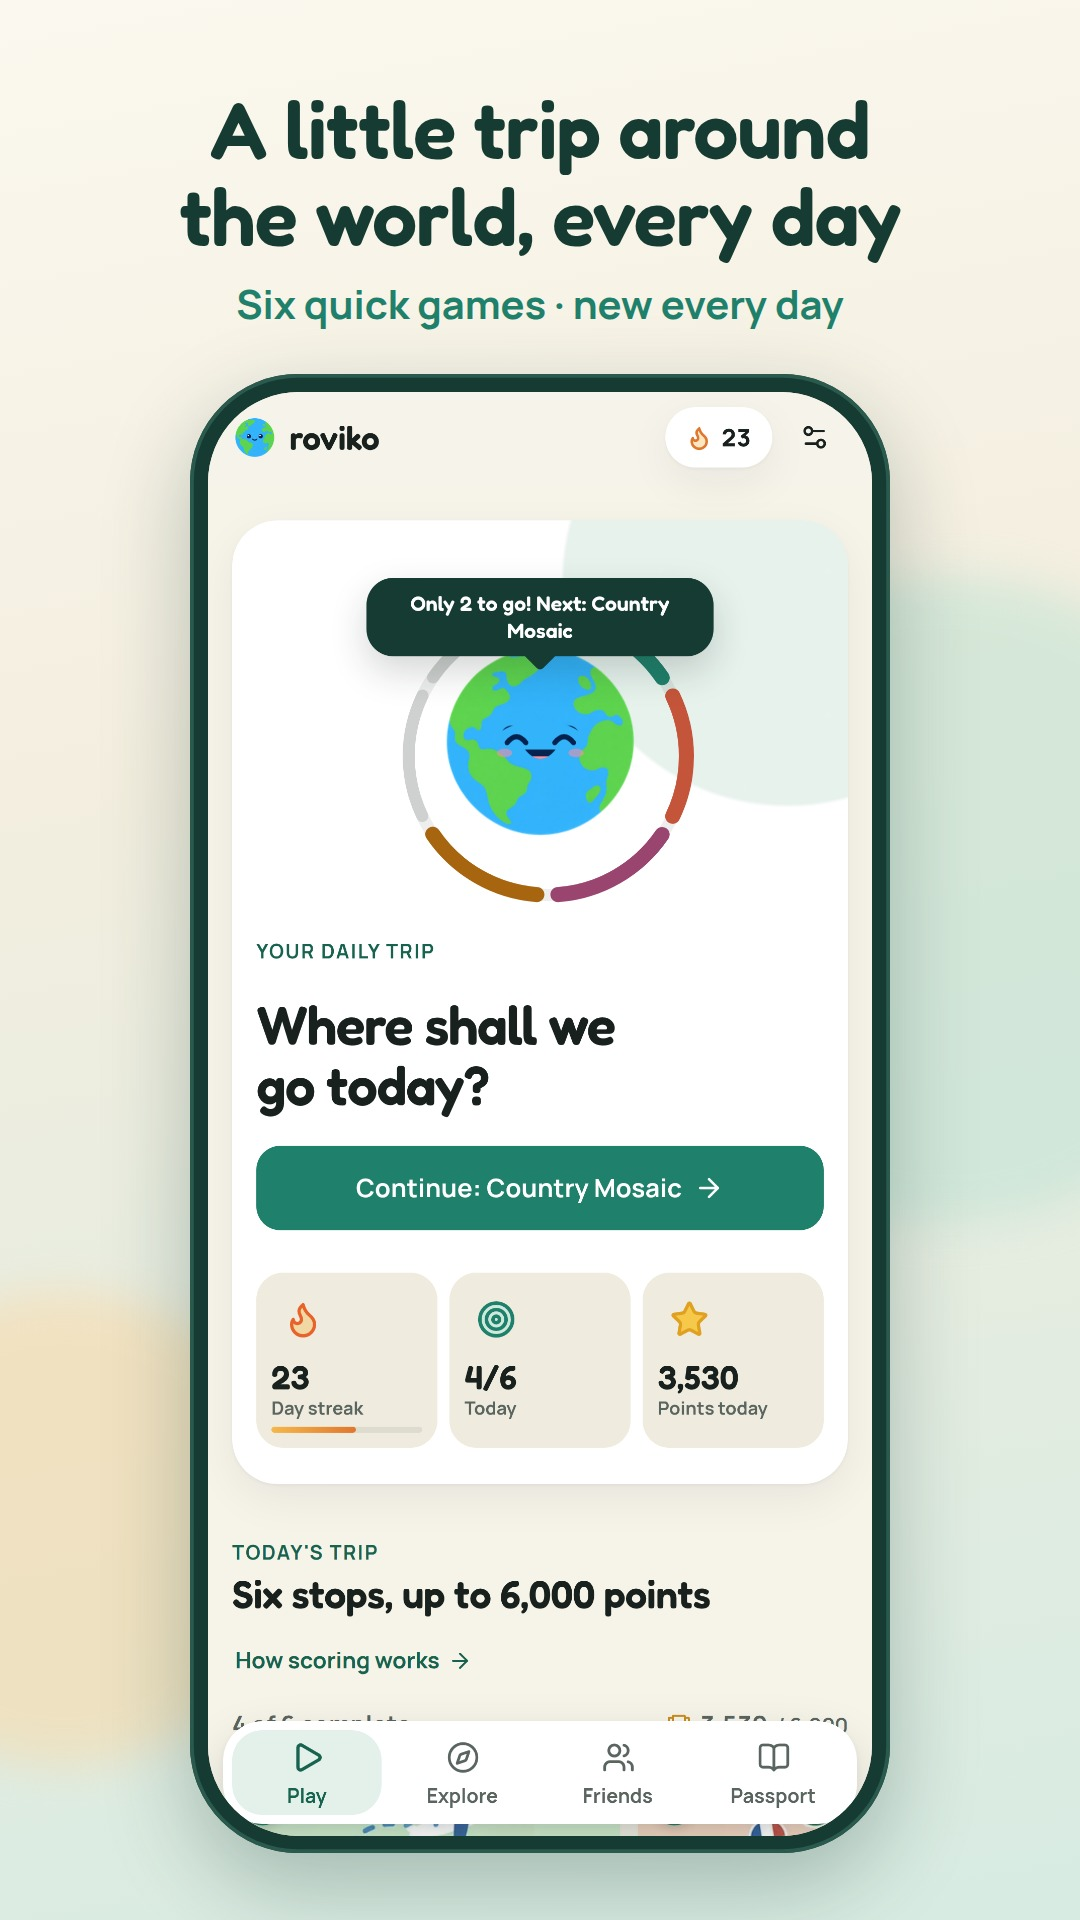
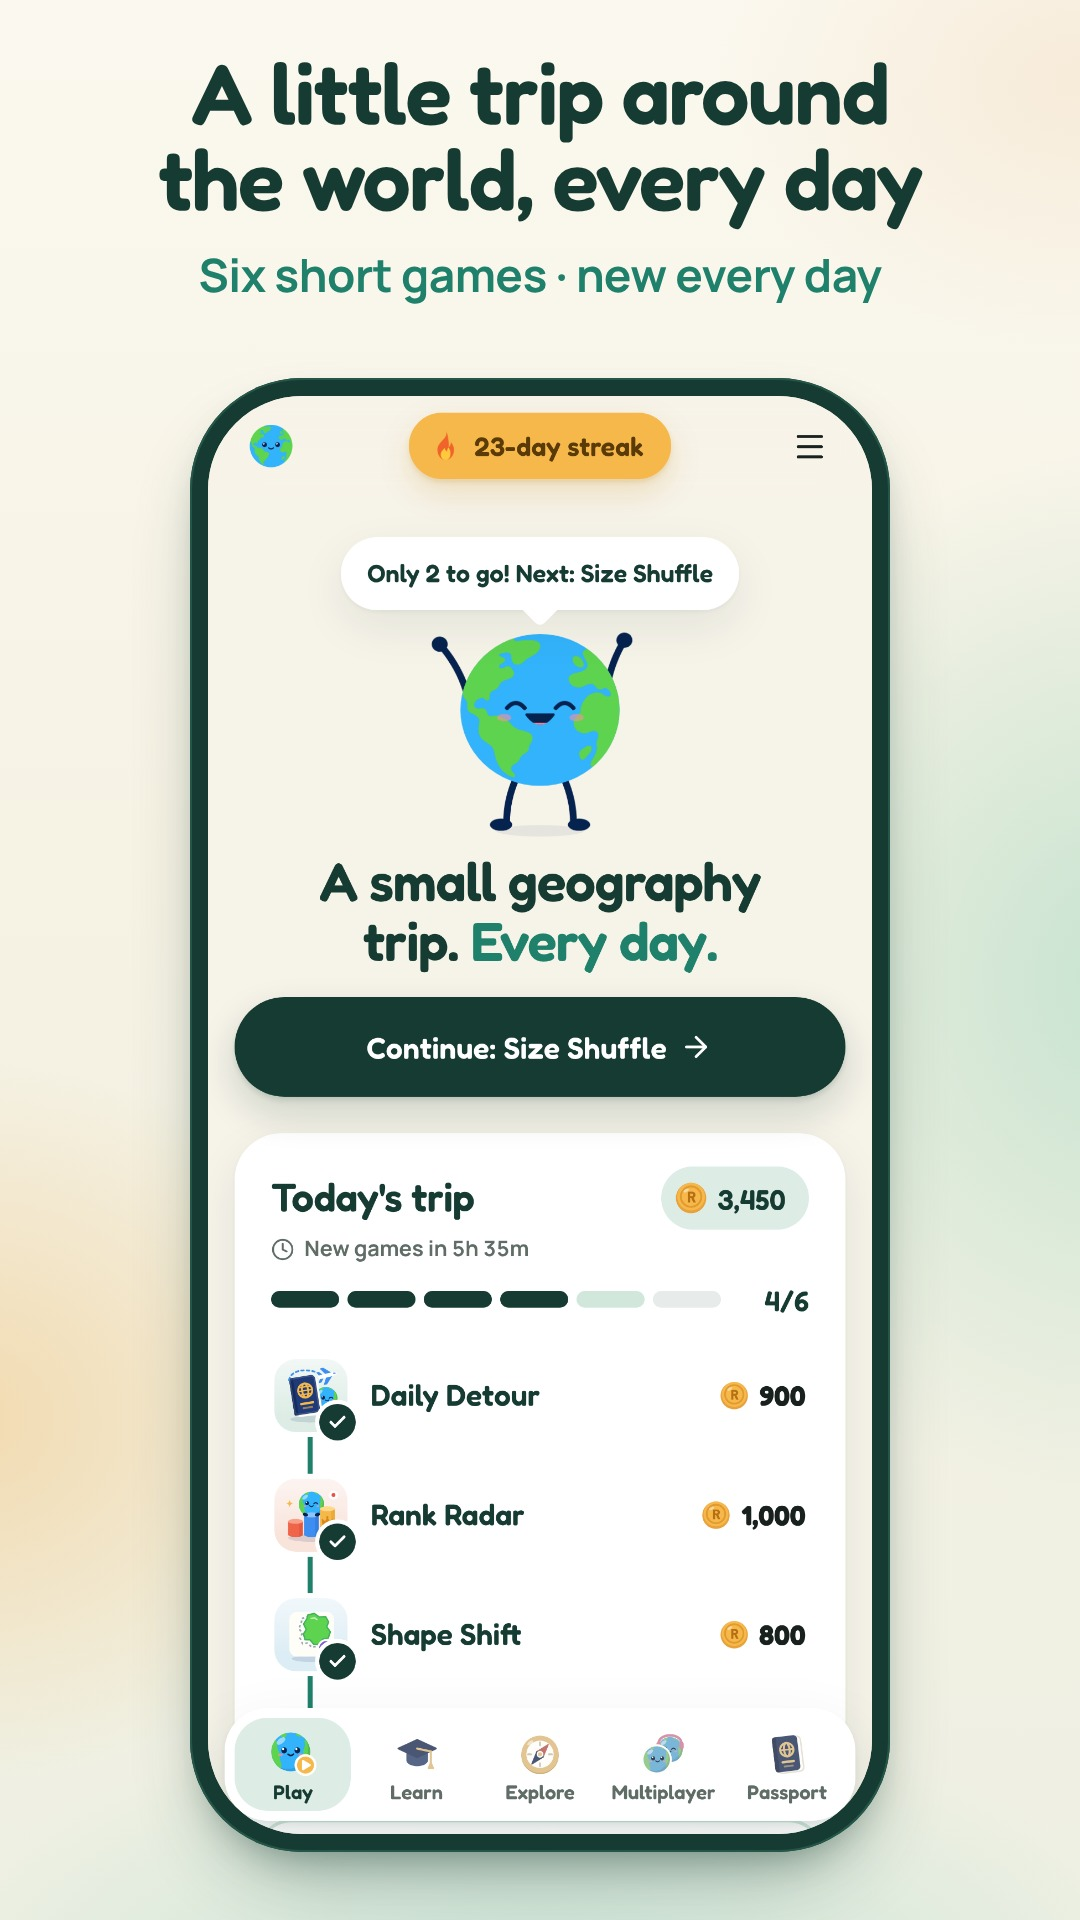
Google Play: nieuwe screenshots voor 1.41 (NL en EN)
Zes per taal: startscherm, Leren, Rank Radar met perfecte keuze,
Vormenjacht, multiplayer-kamer en ranglijst. Gemaakt op een lokale
testserver met voorbeeldspelers; geen live gegevens gebruikt.

Claude-Session: https://claude.ai/code/session_01PQ3vf5Uus3qzDr4Bq788rS

diff --git a/roviko-app/store/README.md b/roviko-app/store/README.md
@@ -1,10 +1,26 @@
 # Winkelafbeeldingen
 
-Deze screenshots zijn gemaakt van versie 1.20 (app-modus) op een lokale ontwikkelserver, met Playwright:
+## Google Play, telefoon (versie 1.41)
 
-1. Een voorbeeldspeler (Sofia / Sanne) krijgt een reeks van 23 dagen, 74 landen in het paspoort en vier van de zes dagspellen van vandaag. Andere voorbeeldspelers vullen de ranglijst. Alles staat alleen in de lokale testdatabase.
-2. Elk scherm wordt opgenomen op 440×956 bij 3× (telefoon) en 1032×1376 bij 2× (iPad). Het live potje tegen twee computerspelers en de Wereldduel-ronde worden echt gespeeld, met het goede antwoord.
-3. Daarna komt er een kop in Fredoka en een ondertitel in Manrope boven, op een crème-mintachtergrond. Het scherm staat helemaal zichtbaar in een donkergroen toestel.
+De set in `google-play-phone/nl/` en `google-play-phone/en/` is gemaakt van versie 1.41 (app-modus) op een lokale ontwikkelserver, met Playwright:
+
+1. Een voorbeeldspeler (Sanne in het Nederlands, Sofia in het Engels) krijgt een reeks van 23 dagen, 3.450 punten en vier van de zes dagspellen van vandaag, voortgang bij Leren (vlaggen en hoofdsteden van Europa), drie vrienden en een plek in de Goudgroep. Elf andere voorbeeldspelers vullen de ranglijsten. Alles stond alleen in de lokale testdatabase; die is daarna teruggezet.
+2. Voor de nieuwe opstelling (Vormenjacht in plaats van Wereldduel) stond `SHAPE_FROM` tijdens het opnemen tijdelijk op de dag zelf; die wijziging is teruggedraaid.
+3. Elk scherm wordt opgenomen op 400×866 bij 3×. Rank Radar (vier rondes, telkens het beste onderwerp: "Perfecte keuze!") en Vormenjacht (drie goede antwoorden, dan vraag 4) worden echt gespeeld; in de kamer zitten echte voorbeeldspelers en een computerspeler.
+4. Daarna komt er een kop in Fredoka en een ondertitel in Manrope boven, op een crème-mintachtergrond, 1080×1920. Het scherm staat helemaal zichtbaar in een donkergroen toestel.
+
+| # | Bestand | Wat je ziet | NL | EN |
+| --- | --- | --- | --- | --- |
+| 1 | `1-home.jpg` | Startscherm: reeks van 23 dagen, reis van vandaag 4/6 met 3.450 punten, volgende spel Size Shuffle | Elke dag een kleine wereldreis · *Zes korte spellen · elke dag nieuw* | A little trip around the world, every day · *Six short games · new every day* |
+| 2 | `2-learn.jpg` | Leren: vlaggen, hoofdsteden en kaart per continent, 21/45 vlaggen met brons/zilver/goud, de route met lessen | Leer vlaggen, hoofdsteden en de kaart · *Per continent, in korte lessen* | Learn flags, capitals and the map · *Continent by continent, in short lessons* |
+| 3 | `3-rank-radar.jpg` | Rank Radar, land 4/8 net gekozen: "Perfecte keuze!", 4 perfect op rij | Waar staat elk land het hoogst? · *Rank Radar* | Where does each country rank highest? · *Rank Radar* |
+| 4 | `4-shape-shift.jpg` | Vormenjacht (dagspel), vraag 4/10 met 300 punten en een reeks van 3 | Herken landen aan hun vorm · *Vormenjacht* | Know countries by their shape · *Shape Shift* |
+| 5 | `5-multiplayer.jpg` | Wachtkamer 6/12 met vier vrienden en een computerspeler | Speel live met vrienden · *Tot 12 spelers per kamer* | Play live with friends · *Up to 12 players per room* |
+| 6 | `6-rankings.jpg` | Ranglijst: Goudgroep (net gepromoveerd), jij op #1 van 12 | Klim in de ranglijst · *Vandaag, deze week en in je liga* | Climb the rankings · *Today, this week and in your league* |
+
+## App Store (versie 1.20)
+
+De App Store-sets zijn nog van versie 1.20, op dezelfde manier gemaakt: voorbeeldspeler met een reeks van 23 dagen en 74 landen in het paspoort, opgenomen op 440×956 bij 3× (telefoon) en 1032×1376 bij 2× (iPad); het live potje tegen twee computerspelers en de Wereldduel-ronde werden echt gespeeld.
 
 | Map | Formaat | Voor |
 | --- | --- | --- |
@@ -12,13 +28,13 @@ Deze screenshots zijn gemaakt van versie 1.20 (app-modus) op een lokale ontwikke
 | `ios-iphone-6.5/` | 1284×2778 | App Store, 6,5" iPhone |
 | `ios-ipad-13/` | 2064×2752 | App Store, 13" iPad |
 | `roviko-screenshots.zip` | | Alle App Store-sets (EN en NL) in één download |
-| `google-play-phone/` | 1080×1920 | Google Play, telefoon |
+| `google-play-phone/` | 1080×1920 | Google Play, telefoon (1.41, zie boven) |
 | `google-play-feature-graphic-*.png` | 1024×500 | Google Play-banner |
 | `app-store-icon-1024.png`, `google-play-icon-512.png` | 1024 / 512 | Winkeliconen (ondoorzichtig) |
 
-Volgorde: 1 startscherm, 2 live potje, 3 Wereldduel, 4 ranglijst, 5 paspoort, 6 ontdekken.
+Volgorde van de App Store-sets (1.20): 1 startscherm, 2 live potje, 3 Wereldduel, 4 ranglijst, 5 paspoort, 6 ontdekken.
 
-De kopteksten per screenshot:
+De kopteksten per App Store-screenshot:
 
 | # | NL | EN |
 | --- | --- | --- |
